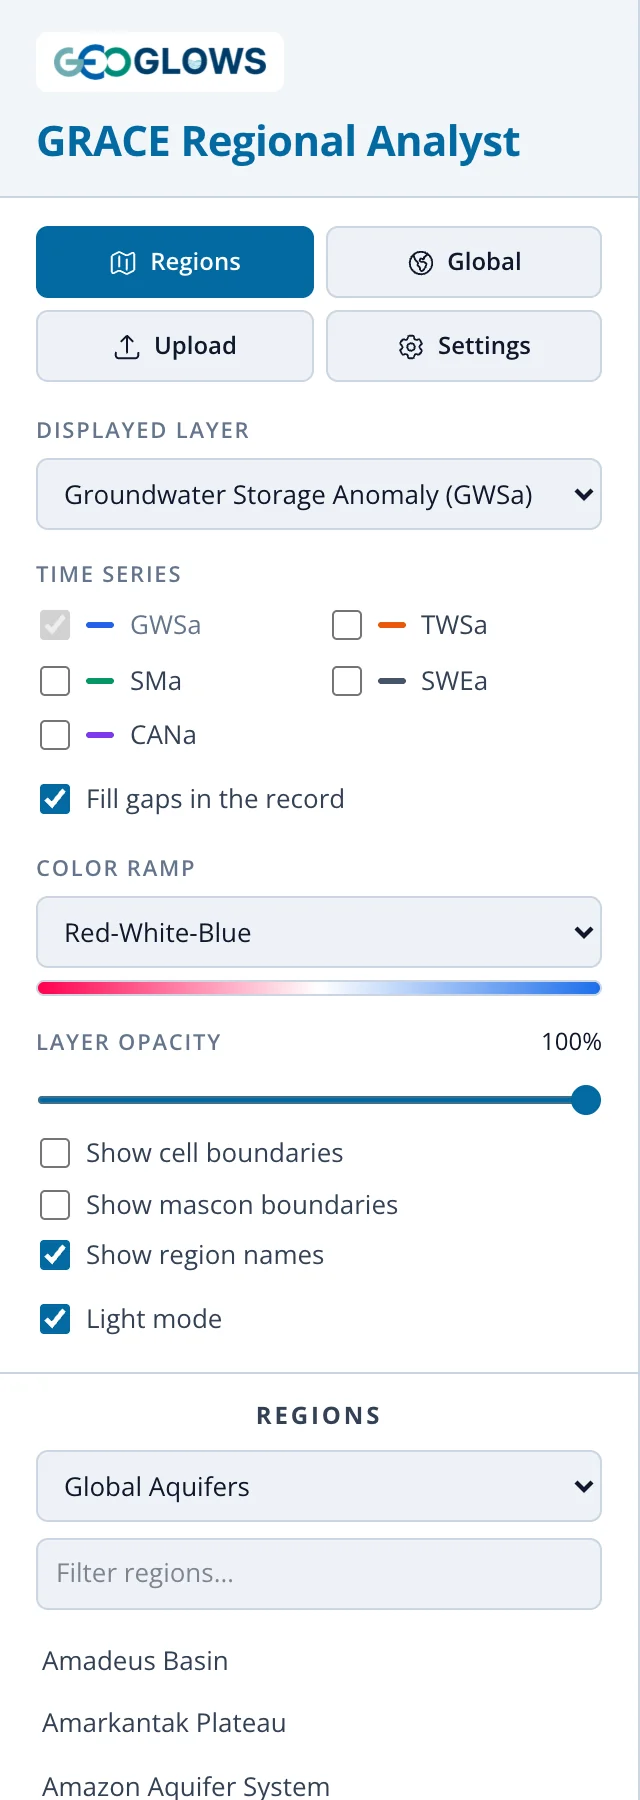
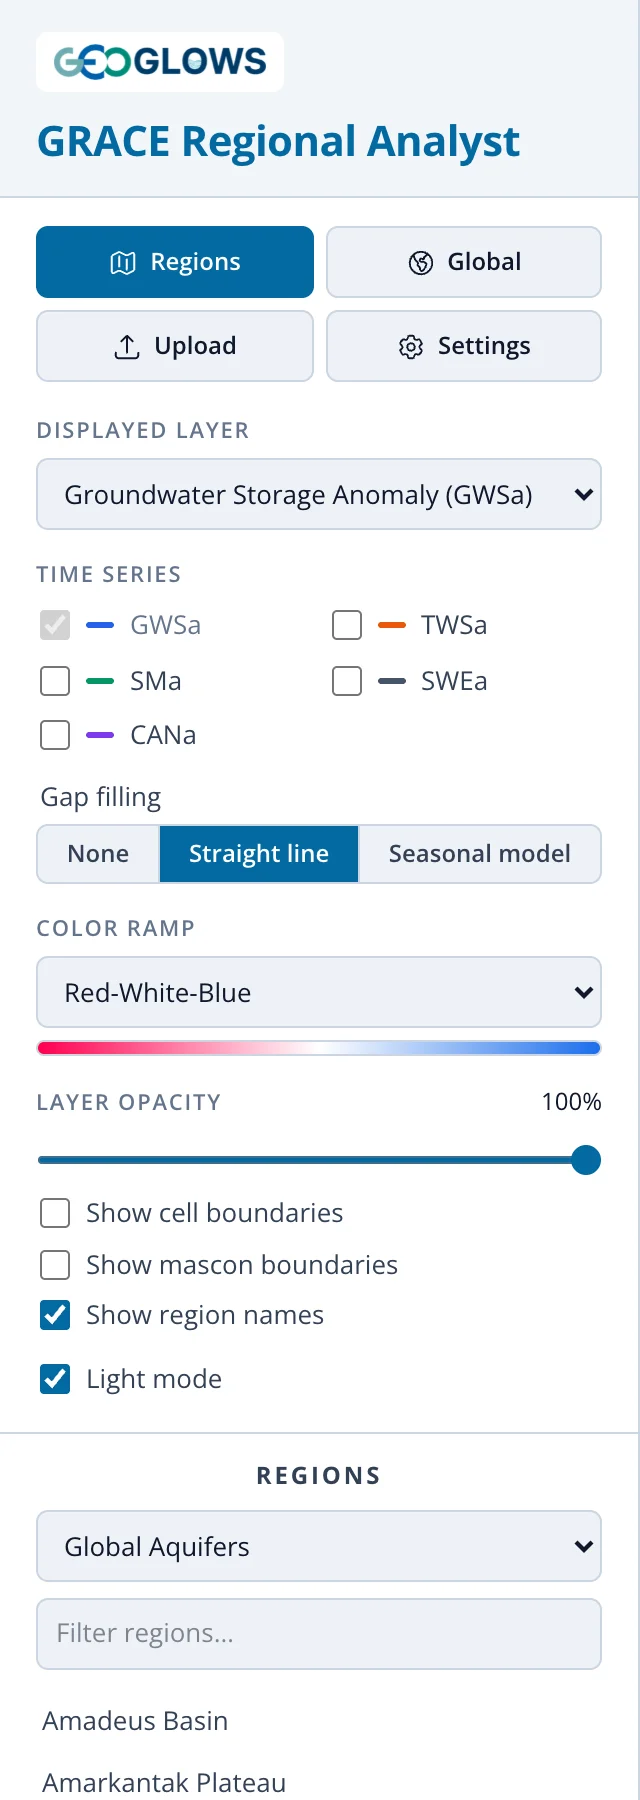
Document the app's gap filling control and filled CSV columns
The Filling Gaps page gets an In the app section built around the Northern
Midwest Aquifer System, comparing the straight line and seasonal model
fills. The interface and Downloading Data pages describe the three-way
control and the _filled / _is_filled columns, and the panel screenshot
shows the new control. These describe the norm2 branch of the app.

diff --git a/docs/grace/applications/gap-filling.en.md b/docs/grace/applications/gap-filling.en.md
@@ -8,18 +8,53 @@ handles gaps by skipping them. Analyses that work year by year, such as estimati
 [water table fluctuation method](recharge-wtf.md), need a value for every month: a missing month at a seasonal peak or trough changes that
 year's result.
 
-The **Fill gaps in the record** checkbox in the app only draws a straight line across a gap on the chart. It doesn't estimate the missing values,
-and the CSV still has blanks in those months.
+The app can fill the gaps for you with a seasonal model, and the [notebook](#using-the-notebook) for this page does the same fill with tests of
+how well it worked.
+
+## In the app
+
+![The Gap filling control in the app's panel](../../static/images/grace/app-gap-fill-control.webp){ width="310" }
+
+The **Gap filling** control in the panel sets what the chart does at months with no GRACE data:
+
+- **None** breaks the line at every gap, so you can see exactly which months were observed.
+- **Straight line** joins the months on either side of each gap. It only bridges the gap on the chart and estimates nothing.
+- **Seasonal model** fills each gap with values estimated from the rest of the record, using the [method](#method) below. Filled months are
+  drawn as a dashed line with open markers, and hovering over one shows its value.
+
+The Northern Midwest Aquifer System has a strong seasonal cycle, which shows the difference well. With **Straight line**, the 11 months between
+GRACE and GRACE-FO become a flat bridge from 9.5 cm in June 2017 to 10.0 cm in June 2018:
+
+![Northern Midwest Aquifer System GWSa with the gaps bridged by straight lines](../../static/images/grace/app-gap-fill-line.webp)
+
+With **Seasonal model**, the filled months carry on the region's annual cycle, rising to 12.8 cm in September 2017 and falling to 4.8 cm in
+March 2018 before climbing to meet the first GRACE-FO month. The short gaps between 2011 and 2017 follow the observed peaks and troughs in the
+same way:
+
+![Northern Midwest Aquifer System GWSa with the gaps filled by the seasonal model](../../static/images/grace/app-gap-fill-seasonal.webp)
+
+How much a fill differs from a straight line depends on the region. Much of the seasonal swing that GRACE sees is soil moisture and snow, which
+are removed before GWSa is computed, so in many regions the groundwater cycle is small and the filled months look close to a straight line.
+
+Some details of the app's fill:
+
+- GWSa and TWSa are each filled from their own record. A filled GWSa value is therefore not exactly the filled TWSa minus the GLDAS terms for
+  that month. The GLDAS layers have no gaps and are never filled.
+- The app chooses the trend breakpoints automatically. To set the number of breakpoints yourself, use the notebook.
+- The uncertainty band is not drawn for filled months, because the error of a filled value comes from the model rather than from GRACE (see
+  [How good is the fill?](#how-good-is-the-fill)).
+- The downloaded CSV always includes the filled values, in the `GWSa_filled` and `TWSa_filled` columns, with `GWSa_is_filled` and
+  `TWSa_is_filled` marking the filled months (see [Downloading Data](../app/downloading-data.md)). This holds whichever option the chart uses.
 
 ## Method
 
-The notebook for this page fills gaps with a statistical model of the series, following the approach of Barbosa et al. (2022):
+The app and the notebook fill gaps with the same statistical model of the series, following the approach of Barbosa et al. (2022):
 
 ```text
 GWSa(t) = trend(t) + seasonal(month of t) + residual(t)
 ```
 
-1. **Trend.** A piecewise straight line, allowed to bend at up to three breakpoints, captures the long-term rise or decline. The notebook
+1. **Trend.** A piecewise straight line, allowed to bend at up to three breakpoints, captures the long-term rise or decline. The model
    chooses the number and position of the breakpoints automatically, adding a breakpoint only when it improves the fit substantially (by the
    Bayesian information criterion), and keeps every segment at least three years long.
 2. **Seasonal cycle.** One value for each calendar month, the average departure from the trend in that month. Together with the trend this gives
@@ -45,7 +80,11 @@ can predict an unusually wet or dry year inside a long gap.
 The test results are printed in the notebook for your region. If the error is close to or larger than the ±1σ uncertainty, treat analyses that
 depend on the filled months with extra caution.
 
-## Running the notebook
+## Using the notebook
+
+The notebook gives the same filled values as the app, and adds the fill-quality tests above, a choice of breakpoints, and the
+[recharge](recharge-wtf.md) calculation.
+
 
 [Open in Google Colab](https://colab.research.google.com/github/Aquaveo/training.geoglows.org/blob/main/docs/static/files/grace/grace_gap_fill_and_recharge.ipynb){:target="_blank"}
 or [download the notebook](../../static/files/grace/grace_gap_fill_and_recharge.ipynb) to run it in Jupyter on your own computer. It needs only

diff --git a/docs/grace/app/downloading-data.en.md b/docs/grace/app/downloading-data.en.md
@@ -11,18 +11,22 @@ displayed layer) or `grace_cell_<lat>_<lon>_data.csv` for a single cell.
 | `Date` | First day of the month, `YYYY-MM-DD` |
 | `GWSa`, `TWSa`, `SMa`, `SWEa`, `CANa` | Area-weighted mean anomaly for the month, cm of liquid water equivalent |
 | `<layer>_upper`, `<layer>_lower` | The mean plus and minus 1σ |
+| `GWSa_filled`, `TWSa_filled` | The same series with its gaps filled by the seasonal model; equal to the observed value in every other month |
+| `GWSa_is_filled`, `TWSa_is_filled` | 1 in months the seasonal model filled, 0 otherwise |
 
-For example:
+For example, the start of the gap between missions for the Northern Midwest Aquifer System:
 
 ```text
-Date,GWSa,GWSa_upper,GWSa_lower,TWSa,TWSa_upper,TWSa_lower,SMa,...
-2002-04-01,-2.406,4.184,-8.996,-4.961,1.683,-11.604,-2.584,...
-2002-05-01,-2.238,1.684,-6.160,-5.182,-1.284,-9.081,-2.976,...
+Date,GWSa,GWSa_upper,GWSa_lower,GWSa_filled,GWSa_is_filled,TWSa,...
+2017-06-01,9.529,14.913,4.146,9.529,0,12.536,...
+2017-07-01,,,,11.146,1,,...
+2017-08-01,,,,12.694,1,,...
 ```
 
 The file has one row for every month from April 2002 to the latest release. In months with no GRACE data, the `GWSa` and `TWSa` cells are blank,
-while the GLDAS layers (`SMa`, `SWEa`, `CANa`) still have values, because the land surface models run every month. The **Fill gaps** setting
-does not change the file.
+while the GLDAS layers (`SMa`, `SWEa`, `CANa`) still have values, because the land surface models run every month. The `_filled` columns
+supply a value for those months (see [Filling Gaps](../applications/gap-filling.md)). They are written whatever the **Gap filling** setting, so
+the file is the same however the chart is drawn.
 
 Excel, Google Sheets, Python and R all read the file directly, and the ISO dates need no conversion (in pandas, use
 `pd.read_csv(path, parse_dates=["Date"])`). To get

diff --git a/docs/grace/app/interface.en.md b/docs/grace/app/interface.en.md
@@ -28,8 +28,9 @@ From top to bottom:
     - Snow Water Equivalent Anomaly (SWEa)
     - Canopy Water Storage Anomaly (CANa)
 - **Time series.** Check other components to add them to the chart for comparison. The displayed layer is always plotted.
-- **Fill gaps in the record.** Draws the chart line straight across months with no GRACE data instead of breaking it. This only changes the
-  drawing; the values, the trends and the downloaded CSV are not affected.
+- **Gap filling.** What the chart does at months with no GRACE data. **None** breaks the line at each gap, **Straight line** joins the
+  months on either side, and **Seasonal model** fills the gaps with values estimated from the rest of the record, drawn as a dashed line with
+  open markers (see [Filling Gaps](../applications/gap-filling.md#in-the-app)). The setting changes only the chart, never the downloaded CSV.
 - **Color ramp.** Six palettes. Viridis, Cividis, Brown-Teal and Purple-Green are safe for readers with color vision deficiency.
 - **Layer opacity.** Fade the anomaly cells to see the basemap underneath.
 - **Show cell boundaries / Show mascon boundaries.** Outline the grid cells, or the 3° GRACE mascons that set the true resolution of the data.

diff --git a/docs/grace/applications/recharge-wtf.en.md b/docs/grace/applications/recharge-wtf.en.md
@@ -58,7 +58,7 @@ in, and each entry can set `"peak"`, `"trough"` or both.
 To convert recharge to a volume, set `AREA_KM2` to the area of your region. The notebook then reports km³/yr and million m³/yr as well.
 
 [Open in Google Colab](https://colab.research.google.com/github/Aquaveo/training.geoglows.org/blob/main/docs/static/files/grace/grace_gap_fill_and_recharge.ipynb){:target="_blank"}
-or [download the notebook](../../static/files/grace/grace_gap_fill_and_recharge.ipynb). See [Filling Gaps](gap-filling.md#running-the-notebook)
+or [download the notebook](../../static/files/grace/grace_gap_fill_and_recharge.ipynb). See [Filling Gaps](gap-filling.md#using-the-notebook)
 for how to load your CSV.
 
 ## Interpreting the results

diff --git a/tools/grace-figures/README.md b/tools/grace-figures/README.md
@@ -32,7 +32,7 @@ The gap-filling and WTF example plots (`gap-filling-example`, `wtf-example-year`
 cd ../../../webapp-grace-groundwater && npx vite --port 5199 --strictPort   # in another terminal
 npm install puppeteer-core
 mkdir -p raw && node shots.mjs raw                  # all shots
-node shots.mjs raw region,global                    # or a subset: home, panel, region, cv, global, modals
+node shots.mjs raw region,global                    # or a subset: home, panel, region, cv, global, modals, gapfill
 ```
 
 The pages use WebP copies resized to 1800 px wide (quality 86), saved to `docs/static/images/grace/app-*.webp`.
